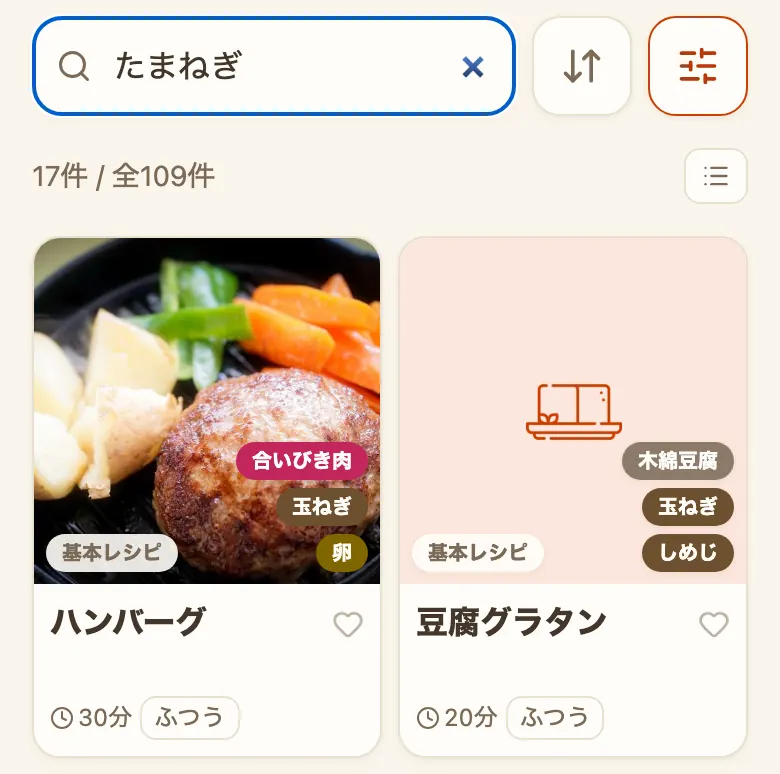
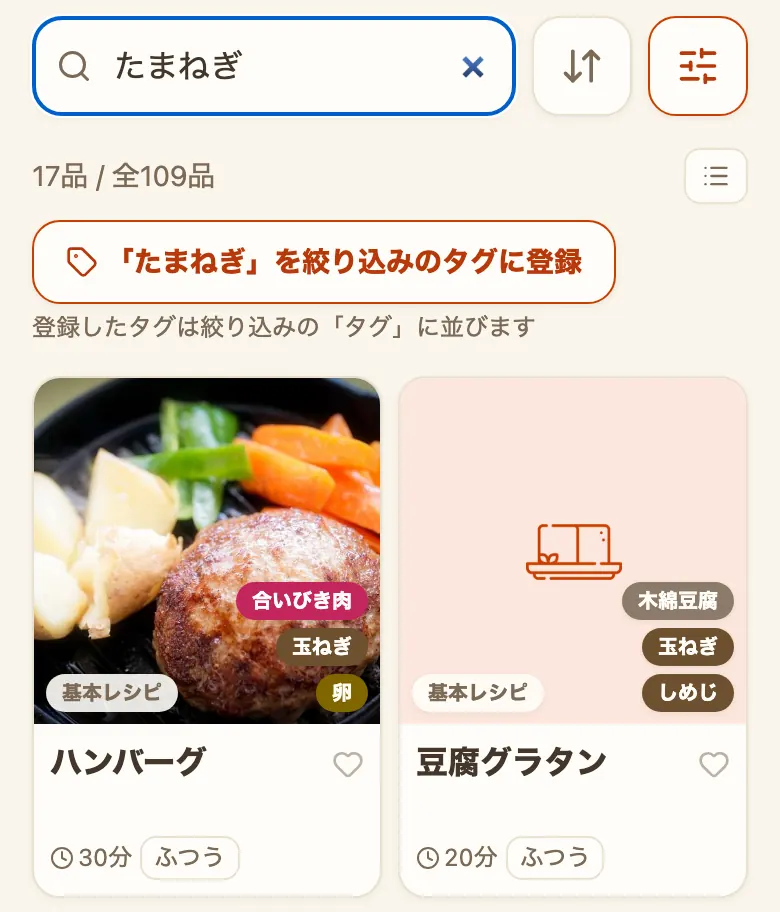
買い物メモにNG食材の警告を渡し、使い方ページを実物に合わせる（便IE）
① 買い物メモの「レシピを選ぶ」と、品目名を押して出る「使うレシピ」の2か所に
   設定「食べられない食材」を渡した（渡すだけ・見せ方は他と同じ）。
   IA-5 の見張りを「献立の2ファイル名指し」から「src/ の .tsx を全部走査し、
   カードを出す場所(place)で対象を決める」形に広げた。対象外は司令部が挙げた2つ
   （作った記録＝cookedLog と photoOverride／押せない見本＝献立の枠の readOnly）だけで、
   表(cardParts.ts)の場所を全部「要る／要らない」に仕分けてあるかも先に見る
   （新しい場所が増えたときに黙って素通りしない）。
   直す前の赤: ShoppingPage の planSlot と recipePicker の2件。

② 使い方ページの図を2枚撮り直した。
   day-suggest（候補カードから「基本レシピ」と食材チップが消え、「条件をしぼる」が窓に
   なり「在庫の食材から」が窓の中へ入った）／search（件数の表示が「◯件 / 全◯件」から
   「◯品 / 全◯品」になり、検索した言葉を絞り込みのタグに登録するボタンが増えた）。
   残り35カットは全部撮り直して見比べ、中身が変わっていないもの（日付・引いた品が
   違うだけ）は元のまま残した。
   撮影の仕組み: 「窓が開いたままで後ろの画面が止まっている」判定が cropRange にしか
   無く、crop（1要素ぶんの切り出し）は素通りだったので、原因のほう（body が
   position:fixed かつ写したいものが窓の外）を見る判定を両方に入れた。全カットで誤検知なし。

③ 使い方ページの本文を実物に合わせた（献立の週=入れかた/現在の条件/3グループの既定/
   曜日カードの既定、日=条件をしぼるの窓、レシピ一覧=絞り込みの区分名・タグの並び・
   栄養価で並び替えの無料枠、Pro=栄養から組むの入口）。
   HR-4 の見張りを2つ広げた: 引用の動詞を「押す」だけから「開く・選ぶ・タップ」まで、
   さらに使い方ページ・紹介ページが太字で名指ししている画面の言葉（87件）を丸ごと。
   直す前の赤: manual.html 「レシピを総入れ替え」。

diff --git a/public/about/manual.html b/public/about/manual.html
@@ -817,13 +817,14 @@
     <p>どちらでも、出てきた料理はボタンの上に並びます。料理名を押すとレシピが開きます。切り替えた側は覚えているので、次に開いたときも同じ側から始まります。</p>
 
     <figure class="shot" style="--w:390px">
-      <img src="/about/img/manual/day-suggest.webp" width="780" height="1288" loading="lazy" decoding="async" alt="献立の「日」の「今日なに作る？」。見出しの下に「1品」「献立」の切り替えがあり、「献立」が選ばれている。その下に「条件をしぼる」と「在庫の食材から」の絞り込み、「おまかせで献立を組む」のボタン、提案された主菜と副菜のカード、候補の品数、「今日の献立に入れる」のボタンが縦に並んでいる">
+      <img src="/about/img/manual/day-suggest.webp" width="780" height="1148" loading="lazy" decoding="async" alt="献立の「日」の「今日なに作る？」。見出しの下に「1品」「献立」の切り替えがあり、「献立」が選ばれている。その下に「条件をしぼる」のボタン、「おまかせで献立を組む」のボタン、提案された主菜と副菜のカード、組み方の説明と主菜の候補の品数、「今日の献立に入れる」のボタンが縦に並んでいる">
       <figcaption>「今日なに作る？」。「1品」と「献立」を切り替えても、出てきた料理・ボタン・「今日の献立に入れる」の並びは同じです</figcaption>
     </figure>
 
     <p>出てきた料理をその日の分にするときは、<strong>「今日の献立に入れる」</strong>を押します。「1品」でも「献立」でも同じボタンです。押すと「朝食・昼食・夕食のどれに入れますか？」と聞かれ、選ぶと今週の予定（今日の枠）と今日の献立の両方に入ります。「朝食・昼食・夕食を決めずに今日の献立に追加」を選ぶと、今週の予定には入れず今日の献立にだけ入ります。押すまでは、どちらも今日の献立には入りません。</p>
 
-    <p>「条件をしぼる」から「お気に入り」「最近作ってない」「◯分以内」のほか、料理の種別（主菜・副菜・汁物・その他）も選べます。料理の種別だけは「1品」のときに使えます（「献立」は主菜と副菜をそろえるため、種別では絞れません）。「献立」で条件を変えたときは、<strong>「おまかせで献立を組む」</strong>を押すと組み直します。</p>
+    <p><strong>「条件をしぼる」</strong>を押すと窓が開き、「どのレシピから選ぶ」（「お気に入り」「最近作ってない」「10分以内」から「30分以内」まで）と「料理の種別」（主菜・副菜・汁物・その他）を選べます。食材の在庫を1つ以上登録していると、窓の中に<strong>「在庫の食材から」</strong>も並びます。選んだ条件は窓を閉じたあともボタンに続けて出るので（「条件をしぼる: お気に入り」）、開かなくても今の条件が読めます。</p>
+    <p>料理の種別だけは「1品」のときに使えます（「献立」は主菜と副菜をそろえるため、種別では絞れません）。条件を変えても候補はその場では入れ替わりません。<strong>「おまかせで1品出す」</strong>（「献立」のときは<strong>「おまかせで献立を組む」</strong>）を押すと、変えた条件で引き直します。</p>
 
     <p class="muted">今日の分が1品でも決まっている日は、「今日なに作る？」は畳んだ状態で出ます。見出しを押すと開き、「1品」「献立」のどちらも同じように使えます。</p>
 
@@ -847,15 +848,16 @@
       <li><strong>食数の設定</strong>: 設定の「食数の設定」に人数を入れておくと、献立に入れた料理を最初からその人数分として扱います（レシピを開いたときの人数も同じになります）</li>
     </ul>
     <p class="muted">食数は「その日に作る量」の記録です。決めた食数は買い物メモの分量と、これから作る予定の概算食費に反映されます。栄養の「1人分」の表示は、何人分作っても1人が食べる量は1人分のままなので変わりません。</p>
-    <p class="muted">「週」の画面の操作は「表示のしかた」「献立を提案」「献立テンプレート」の3つに分けて囲んであります。見出しを押すとそれぞれ開閉でき、はじめに開いているのは「献立を提案」だけです。朝食・昼食・夕食のボタンと「まとめて献立を入力」は見出しの横にあるので、畳んでいるときも押せます。</p>
-    <p class="muted">曜日のカードは、日付の行を押すと日付だけの1行に畳めます。7日ぶんをまとめて畳むときは「すべて折りたたむ」を押します（「すべて開く」で戻ります）。</p>
+    <p class="muted">「週」の画面の操作は「表示のしかた」「献立を提案」「献立テンプレート」の3つに分けて囲んであります。見出しを押すとそれぞれ開閉でき、はじめは3つとも畳んであります。朝食・昼食・夕食のボタンと「まとめて献立を入力」は見出しの横にあるので、畳んでいるときも押せます。</p>
+    <p class="muted">曜日のカードは、はじめは<strong>今日と、献立の入っている先の日</strong>だけが開いています。過ぎた日と、まだ献立の入っていない先の日は畳んだ1行です。日付の行を押すと開け閉めでき、畳んだカードには「献立あり」「作った記録あり」の印が出ます。7日ぶんをまとめて畳むときは<strong>「すべて折りたたむ」</strong>を押します（<strong>「すべて開く」</strong>で戻ります）。</p>
 
     <p><strong>「まとめて献立を入力」</strong>を押すと、表示している週の献立に主菜と副菜をまとめて入れます。</p>
     <ul class="feature-list">
-      <li><strong>「入れかた」で入り方を選べます。</strong>最初は「まだ決まっていない枠だけ埋める」で、今ある献立はそのままにして空いている枠にだけ入れます。実際に何品入ったかは「すでに決まっている◯食分はそのままにして、◯品を新しく立てました」のように結果で出ます</li>
-      <li>「レシピを総入れ替え」を選ぶと、表示している週の今日以降の献立をすべて消してから入れ直します（過ぎた日の献立と作った記録、表示していない食事は消えません）。消える品数と残るものを確かめてから実行できます</li>
-      <li>1行だけ振り直したいときは、その行のサイコロのマークを押します（今日より前の日と、すでに「作った」記録がある行には出ません）</li>
-      <li>「提案の条件」を開くと「調理時間◯分以内を優先」のボタンと、「和食・洋食・中華」「<a href="#pro">栄養から組む</a>（Pro版）」の2つのプルダウンが出ます。調理時間のボタンを押すと、その右に分数（10分・15分・20分・30分）のプルダウンが出て、優先する調理時間を変えられます。調理時間は全レシピが対象で、自分で登録したレシピも調理時間を入れると対象になります</li>
+      <li><strong>「入れかた」</strong>は<strong>「空いた枠だけ」</strong>と<strong>「総入れ替え」</strong>の2つが横に並びます。最初は「空いた枠だけ」で、今ある献立はそのままにして空いている枠にだけ入れます。実際に何品入ったかは「すでに決まっている◯食分はそのままにして、◯品を新しく立てました」のように結果で出ます</li>
+      <li><strong>「総入れ替え」</strong>を選ぶと、表示している週の今日以降の献立をすべて消してから入れ直します（過ぎた日の献立と作った記録、表示していない食事は消えません）。消える品数と残るものを確かめてから実行できます</li>
+      <li>1行だけ振り直したいときは、その行のサイコロのマークを押します（今日より前の日と、すでに「作った」記録がある行には出ません）。振り直したあとに出る<strong>「元に戻す」</strong>で、前の品に戻せます</li>
+      <li><strong>「現在の条件」</strong>を押すと「提案の条件」の窓が開きます。窓の中は<strong>「調理時間◯分以内を優先」</strong>のスイッチと分数（10分以内・15分以内・20分以内・30分以内）、「料理のジャンル」（指定なし・和食・洋食・中華）です。選んでいる条件はボタンに続けて出ます（「現在の条件: 和食」）。調理時間は全レシピが対象で、自分で登録したレシピも調理時間を入れると対象になります</li>
+      <li><a href="#pro">「栄養から組む」</a>（Pro版）は、同じ「提案の条件」の窓の中のプルダウンで選びます。「たんぱく質多め」「塩分ひかえめ」など8つから選ぶと、その栄養にできるだけ沿う組み合わせで提案します。Pro版にしていないときは、「入れかた」の上に鍵のマークつきの「栄養から組む（Pro）」の行が出ます</li>
     </ul>
     <p><strong>副菜は主菜のジャンル（和食・洋食・中華）に合わせて選びます。</strong>合うジャンルの副菜が無いときは、別ジャンルの品を入れて埋め、その品に「主菜と別ジャンル」と表示します。タップすると理由の説明が出ます。</p>
     <p class="muted">丼・麺・カレー・鍋の日は副菜を入れず、「1品で食事が完結する料理のため、副菜は入れていません（必要なら選べます）」と出ます。</p>
@@ -867,7 +869,7 @@
 
     <h3>先週のくり返しと、マイ献立テンプレート</h3>
     <ul class="feature-list">
-      <li>「先週の献立をコピー」: 「献立を提案」の中のスイッチです。ONにして「まとめて献立を入力」を押すと、1週間前の同じ曜日の献立を、まだ決まっていないところにだけ写します。今ある献立は上書きされません。ONのあいだは「提案の条件」と「入れかた」を使いません</li>
+      <li>「先週の献立をコピー」: 「献立を提案」の中のスイッチです。ONにして「まとめて献立を入力」を押すと、1週間前の同じ曜日の献立を、まだ決まっていないところにだけ写します。今ある献立は上書きされません。ONのあいだは「提案の条件」と「入れかた」は反映しません</li>
       <li>「表示している週をテンプレートとして保存」: 表示している週の献立を曜日ごと覚えます。名前を付けていくつでも保存でき、あとで「テンプレートを適用」（「週」の画面では表示している週へ、「月」の画面では表示している月へ入ります）から選んで別の週や月に入れられます</li>
     </ul>
     <p>保存したテンプレートの中身は、「週」の画面の<strong>「テンプレートの中身を見る・直す」</strong>から確かめられます。レシピの差し替え・1品ずつの取り外し・名前の変更ができ、直してもすでに献立に入れた分は変わりません。</p>
@@ -1345,7 +1347,7 @@
     <p>レシピ一覧の上部にある検索欄（「料理名・材料・タグ」）は、表記のゆれを吸収します。</p>
 
     <figure class="shot" style="--w:390px">
-      <img src="/about/img/manual/search.webp" width="780" height="774" loading="lazy" decoding="async" alt="レシピ一覧で「たまねぎ」と検索した画面。検索欄の下にヒットした件数と全体の件数が出て、玉ねぎを使うレシピのカードが並んでいる">
+      <img src="/about/img/manual/search.webp" width="780" height="912" loading="lazy" decoding="async" alt="レシピ一覧で「たまねぎ」と検索した画面。検索欄の下に当てはまった品数と全体の品数、打った言葉を絞り込みのタグに登録するボタンとその説明が出て、玉ねぎを使うレシピのカードが並んでいる">
       <figcaption>「たまねぎ」で検索したところ。「玉ねぎ」の表記でもヒットします</figcaption>
     </figure>
 
@@ -1362,16 +1364,18 @@
       <li><strong>検索キーワード</strong>: 一覧や詳細には<strong>表示されません</strong>。検索したときだけ効きます。「チンジャオロース」「おつまみ」のように、別の呼び方・言いかえを入れておくと、その言葉でも見つかります</li>
     </ul>
     <p class="muted">どちらも入力後に「追加」を押すと確定します。押さないまま保存すると、打ちかけの文字はタグ・キーワードになりません（その旨を画面でお知らせします）。</p>
+    <p>よく打つ言葉は、絞り込みの「タグ」に並べておけます。レシピ一覧で検索すると、検索欄の下に<strong>その言葉を絞り込みのタグに登録するボタン</strong>が出ます（ボタンには打った言葉がそのまま入ります）。登録すると、次からは打たずにタグとして選べます。<strong>登録したタグはレシピ本体には書き込みません</strong>（レシピ詳細のタグは増えません）。もとからあるタグと同じ並びに入り、品数の出方も選び方も同じです。</p>
+    <p class="muted">登録したタグは、絞り込みの「タグ」から削除できます。削除しても、レシピと検索そのものは変わりません。</p>
 
     <h3>並べ替えと絞り込み</h3>
     <ul class="feature-list">
       <li><strong>並べ替え</strong>: 「並び順」（昇順・降順）を選んだうえで、更新順・「在庫との一致が多いレシピ順」・五十音順・「よく使う順」（「作った！」の記録が多い順）・「最近作った順」（記録がいちばん新しい順）から選べます</li>
-      <li><strong>絞り込み</strong>: 「どのレシピから探すか」（お気に入り・「NG食材を含むレシピを隠す」・「自分で登録したレシピのみ」）・「料理の種別」（主菜・副菜・汁物・その他）・「タグ」・「食材で絞り込む」・「調理時間」（「時短レシピのみに絞る」も「調理時間」の中にあります）・「手間レベル」の6つに分かれています</li>
-      <li>「タグ」のチップには、そのタグが付いているレシピの件数が一緒に出ます</li>
+      <li><strong>絞り込み</strong>: 「レシピを絞り込む」（お気に入り・「NG食材を含むレシピを隠す」・「自分で登録したレシピのみ」）・「料理の種別」（主菜・副菜・汁物・その他）・「タグ」・「食材で絞り込む」・「調理時間」（「時短レシピのみに絞る」も「調理時間」の中にあります）・「手間レベル」の6つに分かれています。「調理時間」と「手間レベル」はプルダウンから選び、ほかはチップを押して選びます</li>
+      <li>「タグ」は1つの並びにまとまっていて、チップにはそのタグに当てはまるレシピの品数が一緒に出ます。タグは2つ以上選べ、<strong>「選んだタグをすべて含む」</strong>のスイッチで、どれか1つでも当てはまるレシピ（OFF）と、選んだタグがすべて当てはまるレシピ（ON）を切り替えられます</li>
       <li>「食材で絞り込む」の「使いたい食材」に食材を入れると、そのレシピで使える食材の数も出ます。食材の在庫を「ある」または「少ない」で1つ以上登録しておくと、「在庫の食材で絞る」と「食材の在庫から入れる」も出ます</li>
     </ul>
     <p class="muted">絞り込みのパネルは一覧に重ねて開きます。条件を変えるたびに、パネルの上端に出る件数（「◯品 / 全◯品」）が変わります。</p>
-    <p class="muted">カロリー順の並べ替えは無料で使えます。たんぱく質が多い順・塩分が低い順などはPro版の機能です。</p>
+    <p class="muted">並べ替えの「栄養価で並び替え」は、「エネルギー」だけ無料でお使いいただけます。たんぱく質・脂質・炭水化物・食物繊維・鉄・カルシウム・塩分相当量での並び替えはPro版の機能です。</p>
 
     <h3>まとめて選ぶ（今日の献立に入れる・書き出す・削除する）</h3>
     <p>レシピ一覧の<strong>「選択」</strong>を押すと選択モードになります（レシピのカードを長押ししても入れます）。「選択」のボタンは、同じ場所で<strong>「選択をやめる」</strong>に変わります。レシピをタップすると選べ、もう一度タップで外れます。「全選択」「選択解除」も使えます。</p>
@@ -1524,7 +1528,7 @@
       <li>買い物メモ・食材の在庫</li>
       <li>調理中モード（読み上げ・声での操作・タイマー・用語の説明）</li>
       <li>作った記録・お気に入り・共有</li>
-      <li>カロリーと野菜量の概算、カロリー順の並べ替え、概算食費</li>
+      <li>カロリーと野菜量の概算、「栄養価で並び替え」の「エネルギー」、概算食費</li>
       <li>バックアップの書き出しと読み込み</li>
     </ul>
 
@@ -1536,7 +1540,7 @@
     <h3>Pro版（買い切り）で使えるようになること</h3>
     <ul class="feature-list">
       <li><strong>レシピの登録数の上限なし</strong>（無料の30品の上限がなくなり、何品でも登録できます）</li>
-      <li><strong>栄養価の8項目表示</strong>（無料のカロリーに加えて、たんぱく質・脂質・炭水化物・食物繊維・鉄・カルシウム・塩分相当量）と、「栄養価で並び替え」</li>
+      <li><strong>栄養価の8項目表示</strong>（無料のカロリーに加えて、たんぱく質・脂質・炭水化物・食物繊維・鉄・カルシウム・塩分相当量）と、その7項目での「栄養価で並び替え」</li>
       <li><strong>月間の献立</strong>（カレンダー表示・「献立をまとめて提案」・「期間で絞る」での食費と栄養のまとめ・1か月分の献立表の印刷・画像保存）</li>
       <li><strong>並行調理ナビ</strong></li>
       <li><strong>栄養から組む</strong>（「たんぱく質多め」「塩分ひかえめ」など8つの軸から選んで献立を提案）</li>
@@ -1544,14 +1548,14 @@
     <p>Pro版の機能は画面から隠さず、その機能がある場所ごとに<strong>鍵のマークつきの案内</strong>を出します。</p>
 
     <h3>栄養から組む<span class="pro-tag">Pro版</span></h3>
-    <p>献立の「週」「月」の画面にある<strong>「提案の条件」</strong>を開くと、<strong>「栄養から組む」</strong>のプルダウンで選べます。</p>
+    <p>献立の「週」「月」の画面の<strong>「現在の条件」</strong>を押すと「提案の条件」の窓が開き、その中の<strong>「栄養から組む」</strong>のプルダウンで選べます。</p>
     <ul class="feature-list">
       <li><strong>選べる栄養</strong>: 「指定なし」のほかに8つあり、「多め」と「ひかえめ」に分かれています</li>
       <li><strong>「多め」</strong>: 「たんぱく質多め」「食物繊維多め」「鉄多め」「カルシウム多め」</li>
       <li><strong>「ひかえめ」</strong>: 「エネルギーひかえめ」「脂質ひかえめ」「炭水化物ひかえめ」「塩分ひかえめ」</li>
       <li><strong>提案への効き方</strong>: 「まとめて献立を入力」「おまかせで献立を組む」「献立をまとめて提案」が、同じ枠を数回引き直して、選んだ栄養に沿う組み合わせを採ります。ふだんの決まりごと（同じ日はジャンルをそろえる・同じ料理を続けない）はそのままです</li>
     </ul>
-    <p class="muted">栄養を選んでいないときの提案は、これまでとまったく同じです。未解錠のときは「提案の条件」のそばに鍵のマークつきの「栄養から組む（Pro）」が出ます。</p>
+    <p class="muted">栄養を選んでいないときの提案は、これまでとまったく同じです。未解錠のときは、「週」の画面では「入れかた」の上、「月」の画面では「現在の条件」の下に、鍵のマークつきの「栄養から組む（Pro）」が出ます。</p>
 
     <h3>買う前にお試しいただけます</h3>
     <p>Pro版の機能のうち3つは、解錠しなくても実際に使ってお確かめいただけます。期限はありません。</p>

diff --git a/src/pages/ShoppingPage.tsx b/src/pages/ShoppingPage.tsx
@@ -990,6 +990,9 @@ export default function ShoppingPage() {
                           recipe={recipe}
                           density="small"
                           place="planSlot"
+                          // 設定「食べられない食材」の警告（2026-08-19 便IE）。ここに並ぶのは
+                          // これから作る品なので、献立の枠と同じように警告を出す
+                          ngIngredients={settings?.ngIngredients ?? []}
                           onNavigate={() => setNamePopup(null)}
                           meta={source.amount || undefined}
                         />
@@ -1099,7 +1102,15 @@ export default function ShoppingPage() {
                           写真で見分けられるようになる。似た名前を2行まで折り返す作法
                           (2026-07-29 便CC/C20)は「標準」の料理名がそのまま引き継いでいる */}
                       <div className="min-w-0 flex-1">
-                        <RecipeCard recipe={recipe} density="standard" place="recipePicker" readOnly />
+                        {/* 設定「食べられない食材」の警告（2026-08-19 便IE）。献立の枠のレシピ選び・
+                            献立テンプレの差し替えと同じ「1品を選ぶ」場所なので、同じ印を出す */}
+                        <RecipeCard
+                          recipe={recipe}
+                          density="standard"
+                          place="recipePicker"
+                          ngIngredients={settings?.ngIngredients ?? []}
+                          readOnly
+                        />
                       </div>
                       {/* 食数の+/-ステッパー(2026-07-23 #3)。1食以上で選択扱い・指定食数で候補生成 */}
                       <div className="flex shrink-0 items-center gap-1">
